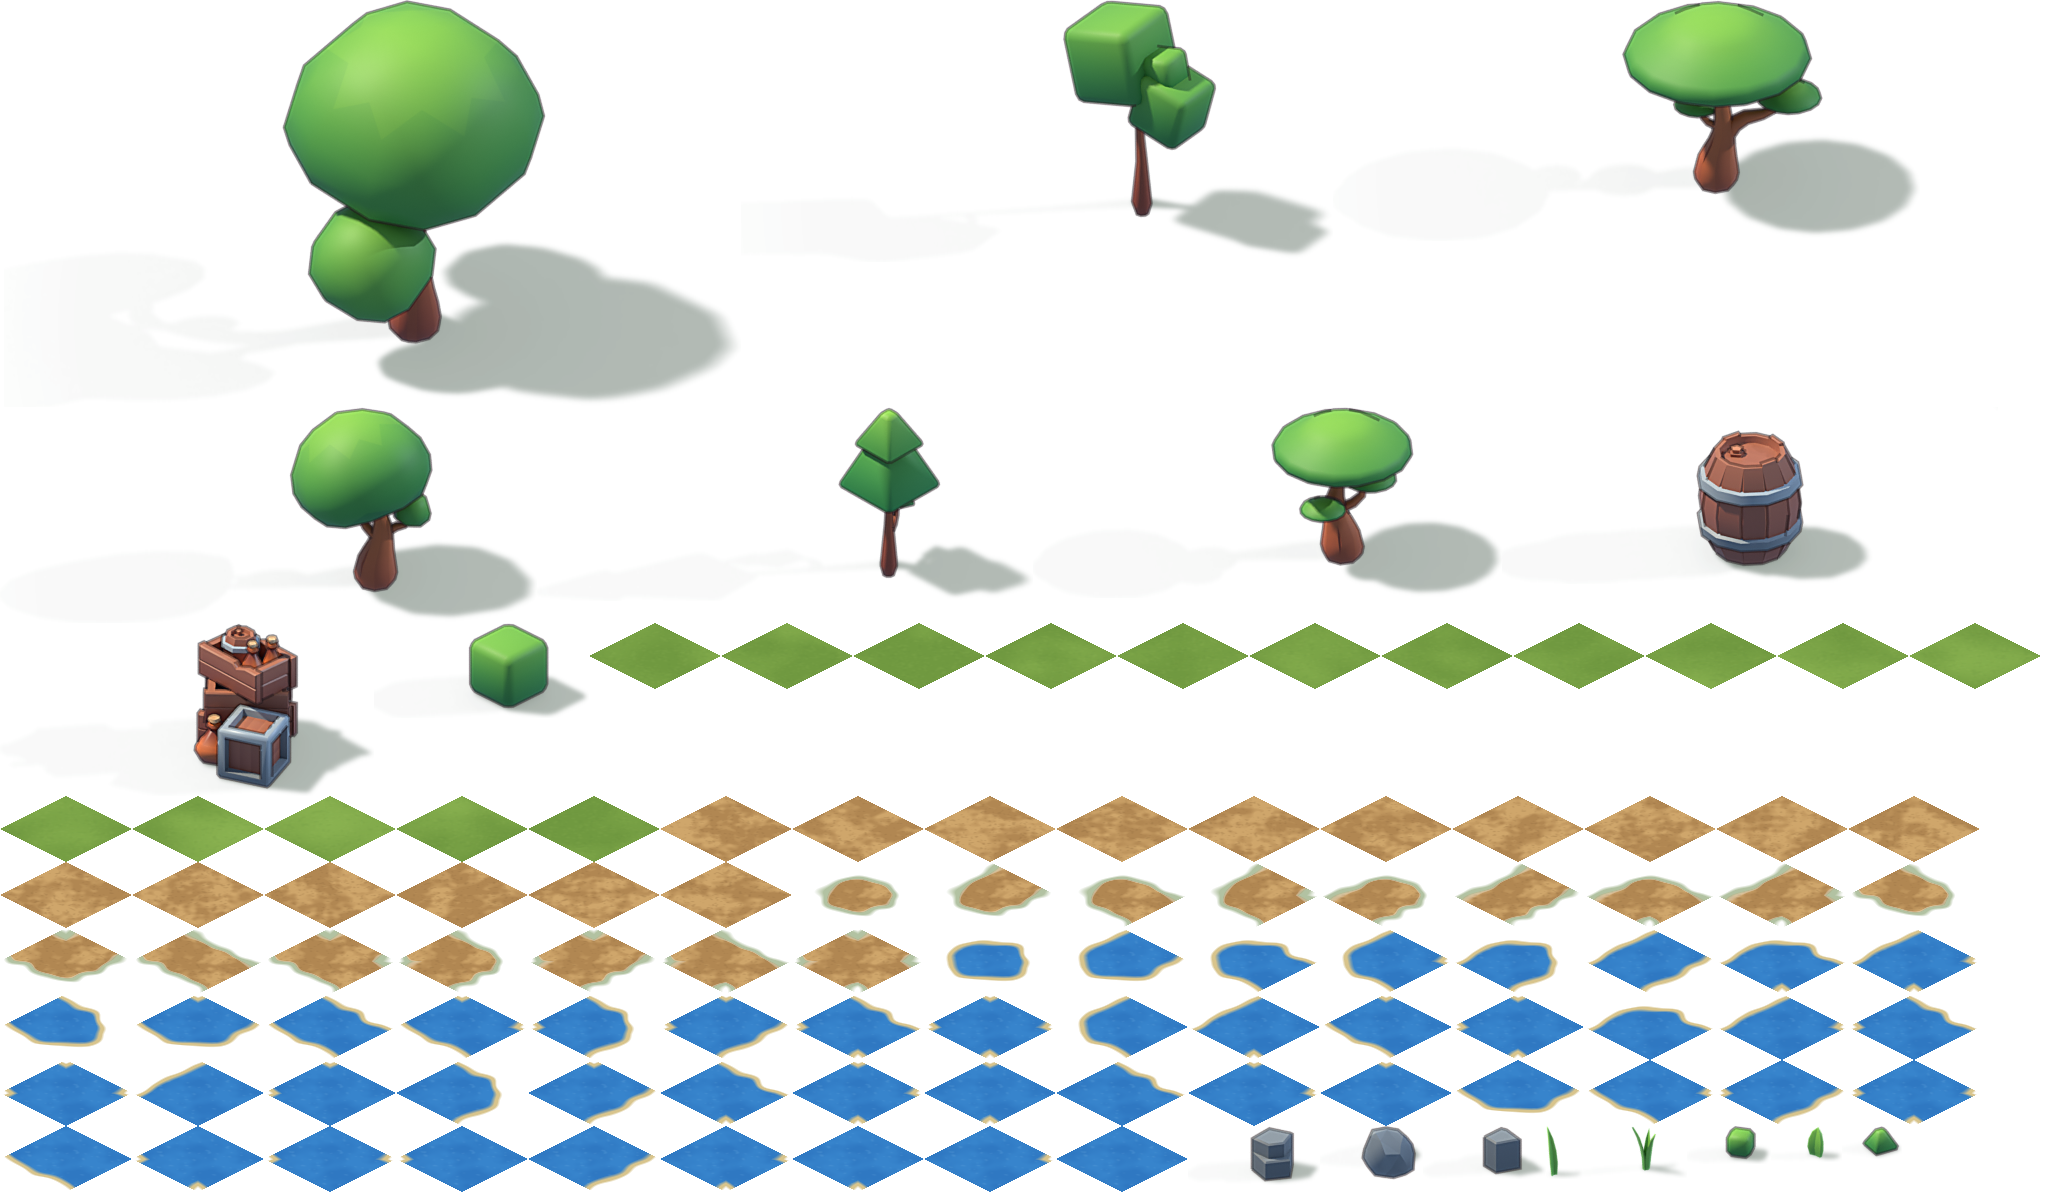
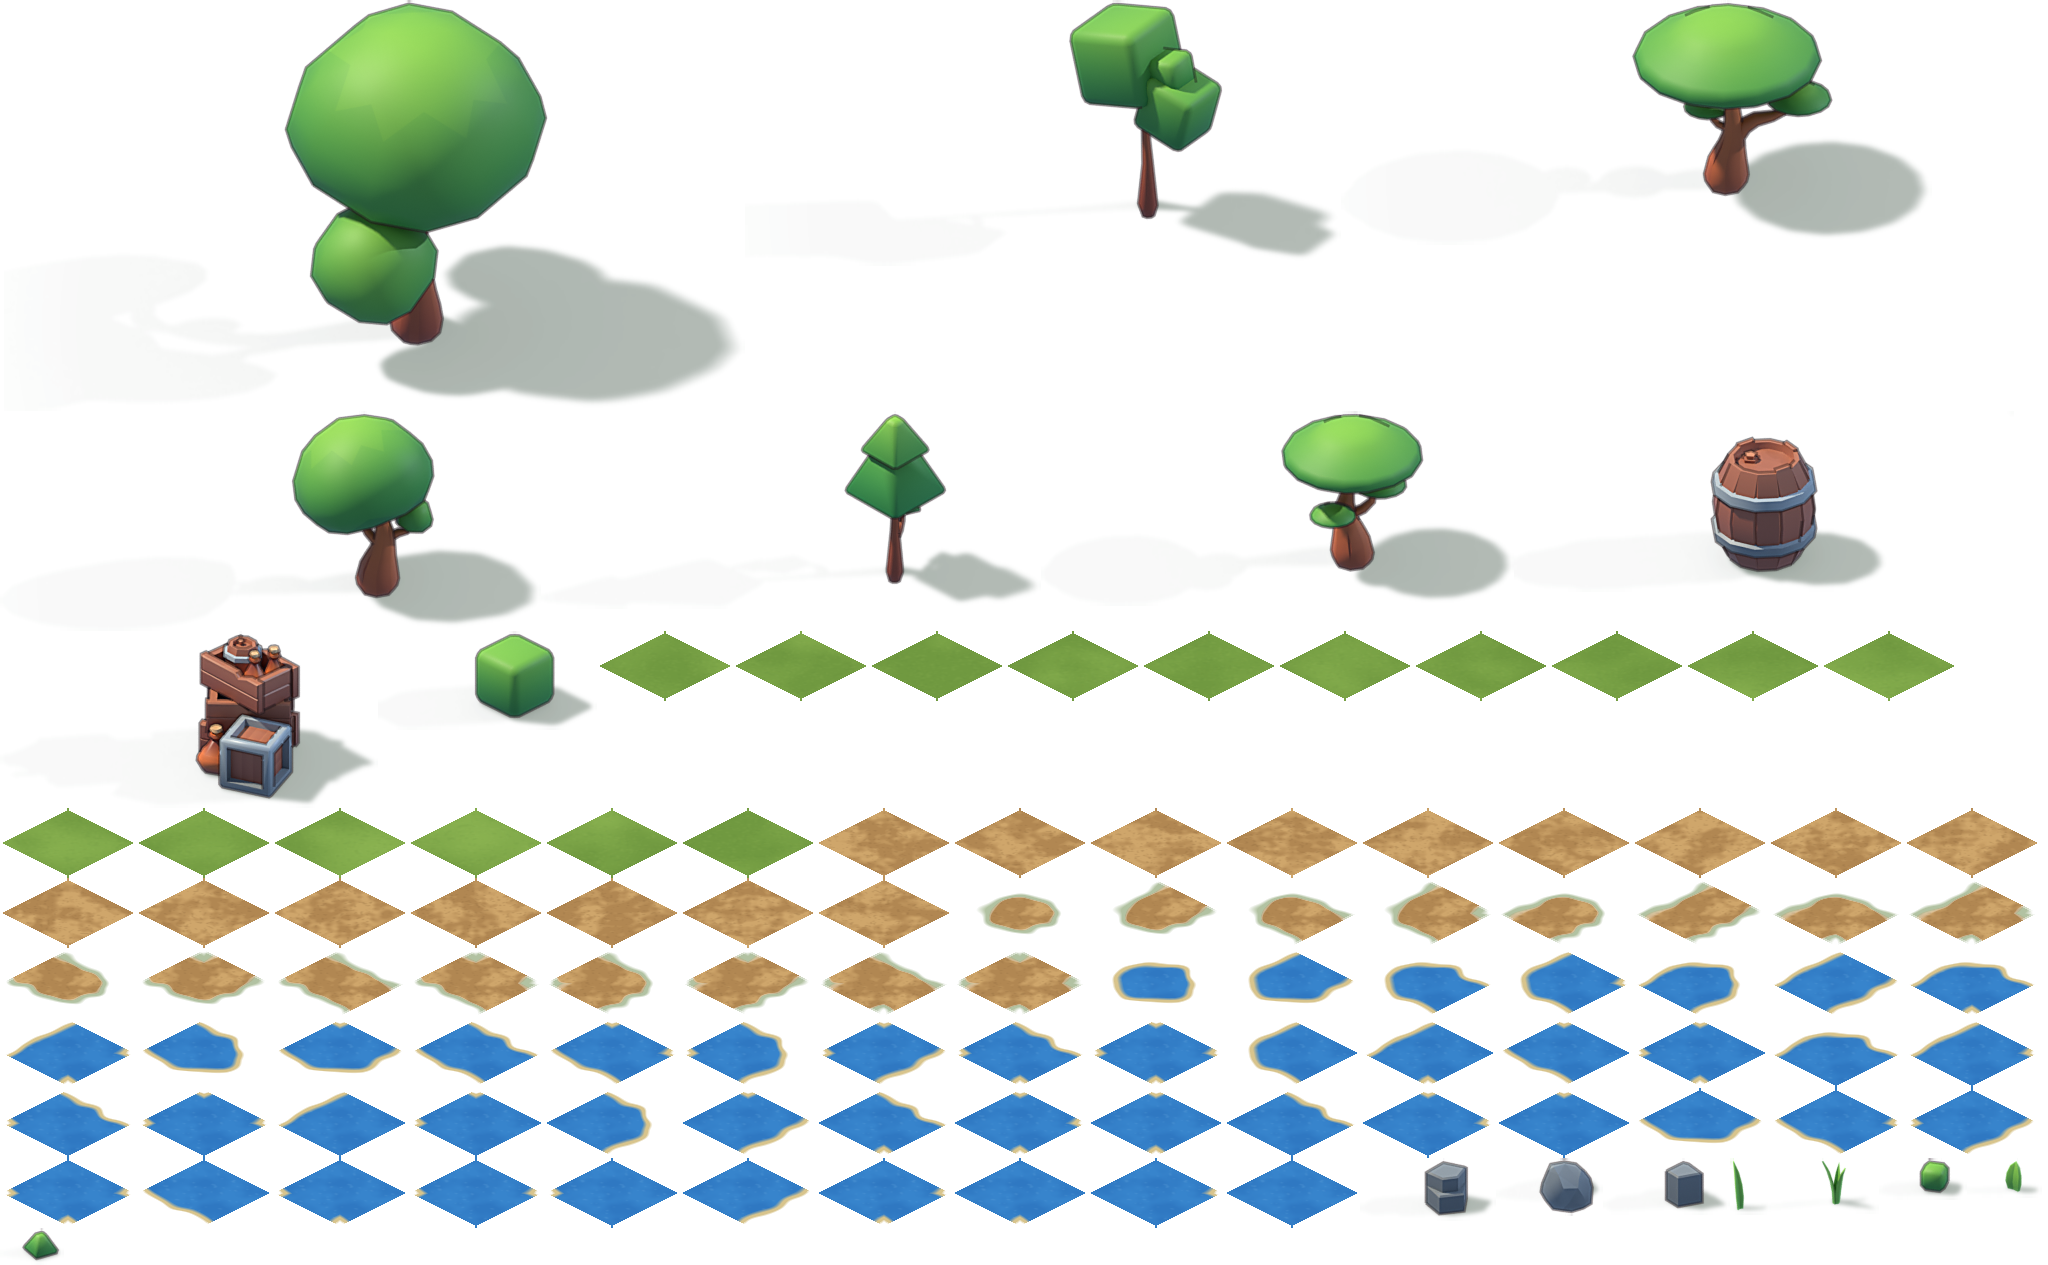
fix(new-game): pad atlas frames and even out joined path rims
Each atlas frame repeats its edge pixels around it, so a renderer that
samples past the source rect no longer picks up the next frame. Decals
split their opacity where neighbours overlap, so joins do not darken.

diff --git a/templates/new-game/build/build.py b/templates/new-game/build/build.py
@@ -182,6 +182,22 @@ def alpha(values):
     return img
 
 
+def join_opacity(frame, mask):
+    # Joined decals share an overlap of 2*M pixels. Split the opacity between
+    # its two (or four at a corner) frames so their rims do not darken there.
+    opacity = frame.getchannel('A')
+    pixels = opacity.load()
+    for y in range(frame.height):
+        vertical = (y < 2 * M and mask & 1) or (y >= C and mask & 4)
+        for x in range(frame.width):
+            horizontal = (x < 2 * M and mask & 8) or (x >= C and mask & 2)
+            copies = (2 if vertical else 1) * (2 if horizontal else 1)
+            if copies > 1:
+                pixels[x, y] = round(255 * (1 - (1 - pixels[x, y] / 255) ** (1 / copies)))
+    frame.putalpha(opacity)
+    return frame
+
+
 def path_frames():
     fill = dirt(C)
     rim_colour = flat('#547830', C + 2 * M).convert('RGBA')
@@ -197,7 +213,7 @@ def path_frames():
         dirt_layer = cut(fill, -M, -M, C + 2 * M).convert('RGBA')
         dirt_layer.putalpha(inside)
         frame.alpha_composite(dirt_layer)
-        frames[mask] = frame
+        frames[mask] = join_opacity(frame, mask)
     return frames
 
 
@@ -217,7 +233,7 @@ def pond_frames():
         deep = cut(fill, -M, -M, C + 2 * M).convert('RGBA')
         deep.putalpha(alpha([smooth(v + 0.07, 0.05) for v in d]))
         frame.alpha_composite(deep)
-        frames[mask] = frame
+        frames[mask] = join_opacity(frame, mask)
     return frames
 
 
@@ -283,18 +299,30 @@ class Atlas:
     def save(self, folder, width=2048):
         # Shelves, tallest first. Pixel (0, 0) stays clear, or the client takes
         # its colour for a key and makes every pixel of it transparent.
+        padding = 2
         x, y, shelf, placed = 4, 0, 0, {}
         for fid, img, _, _ in sorted(self.frames, key=lambda f: -f[1].height):
-            if x + img.width > width:
+            if x + img.width + 2 * padding > width:
                 x, y, shelf = 0, y + shelf, 0
-            placed[fid] = (x, y)
-            x += img.width
-            shelf = max(shelf, img.height)
+            placed[fid] = (x + padding, y + padding)
+            x += img.width + 2 * padding
+            shelf = max(shelf, img.height + 2 * padding)
         sheet = Image.new('RGBA', (width, y + shelf))
         meta = {}
         for fid, img, (ax, ay), piece in self.frames:
             px, py = placed[fid]
             sheet.paste(img, (px, py))
+            # Filtering samples outside the source rectangle; repeat its edge
+            # pixels so it cannot pick up another frame's colour or alpha.
+            for lo, hi, start, end in [(-padding, 0, 0, 1), (0, img.width, 0, img.width),
+                                       (img.width, img.width + padding, img.width - 1, img.width)]:
+                for top, bottom, first, last in [(-padding, 0, 0, 1), (0, img.height, 0, img.height),
+                                                 (img.height, img.height + padding, img.height - 1, img.height)]:
+                    if lo == 0 and top == 0:
+                        continue
+                    edge = img.crop((start, first, end, last)).resize((hi - lo, bottom - top),
+                                                                    Image.Resampling.NEAREST)
+                    sheet.paste(edge, (px + lo, py + top))
             meta[str(fid)] = {'x': px, 'y': py, 'width': img.width, 'height': img.height,
                               'drawWidth': img.width / S, 'drawHeight': img.height / S,
                               'anchorX': ax / S, 'anchorY': ay / S, 'piece': piece}

diff --git a/templates/new-game/build/test_build.py b/templates/new-game/build/test_build.py
@@ -1,0 +1,53 @@
+import json
+import tempfile
+import unittest
+from pathlib import Path
+
+from PIL import Image
+
+import build
+from build import Atlas
+
+
+class AtlasTest(unittest.TestCase):
+    def test_filtered_frames_have_their_own_edge_pixels_around_them(self):
+        atlas = Atlas()
+        images = [Image.new('RGBA', (8, 6)) for _ in range(2)]
+        for n, image in enumerate(images):
+            image.putdata([(x * 30, y * 40, n * 255, 128 + x * 16)
+                           for y in range(image.height) for x in range(image.width)])
+            atlas.add(image, (4, 3), {'name': str(n)})
+
+        with tempfile.TemporaryDirectory() as folder:
+            atlas.save(folder, width=20)
+            root = Path(folder) / 'assets'
+            frames = json.loads((root / 'tiles.json').read_text())
+            with Image.open(root / 'tiles.png') as sheet:
+                self.assertEqual(sheet.getpixel((0, 0)), (0, 0, 0, 0))
+                for fid, image in enumerate(images, 1):
+                    frame = frames[str(fid)]
+                    for y in range(-2, image.height + 2):
+                        for x in range(-2, image.width + 2):
+                            expected = image.getpixel((min(max(x, 0), image.width - 1),
+                                                       min(max(y, 0), image.height - 1)))
+                            self.assertEqual(sheet.getpixel((frame['x'] + x, frame['y'] + y)),
+                                             expected, (fid, x, y))
+
+    def test_connected_decals_keep_their_opacity_where_they_overlap(self):
+        size = build.C + 2 * build.M
+        for mask, offsets in [(10, [(0, 0), (build.C, 0)]),
+                              (5, [(0, 0), (0, build.C)]),
+                              (15, [(0, 0), (build.C, 0), (0, build.C), (build.C, build.C)])]:
+            tile = build.join_opacity(Image.new('RGBA', (size, size), (80, 120, 40, 128)), mask)
+            scene = Image.new('RGBA', (2 * size, 2 * size))
+            for at in offsets:
+                scene.alpha_composite(tile, at)
+            xs = range(build.C, size) if mask & 2 else [build.C // 2]
+            ys = range(build.C, size) if mask & 1 else [build.C // 2]
+            for y in ys:
+                for x in xs:
+                    self.assertLessEqual(abs(scene.getpixel((x, y))[3] - 128), 1, (mask, x, y))
+
+
+if __name__ == '__main__':
+    unittest.main()
